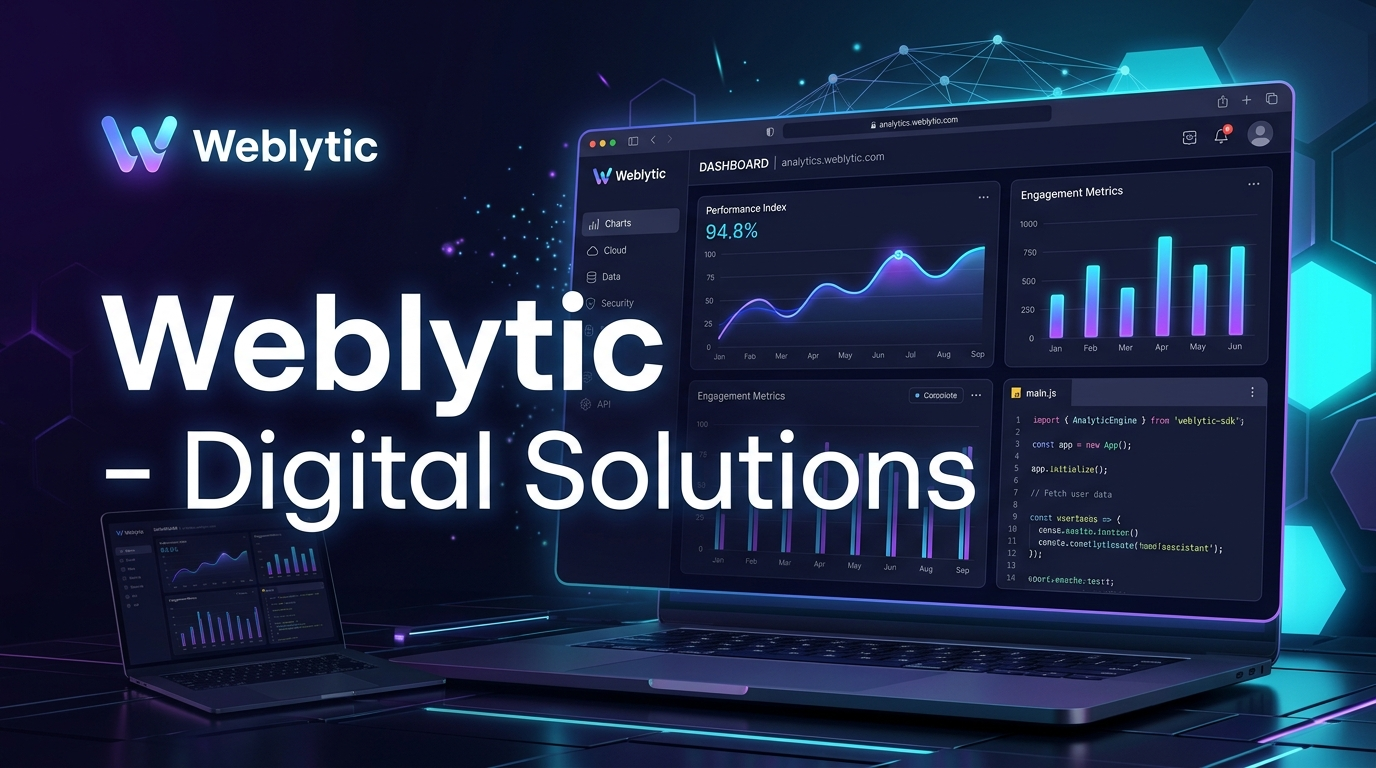
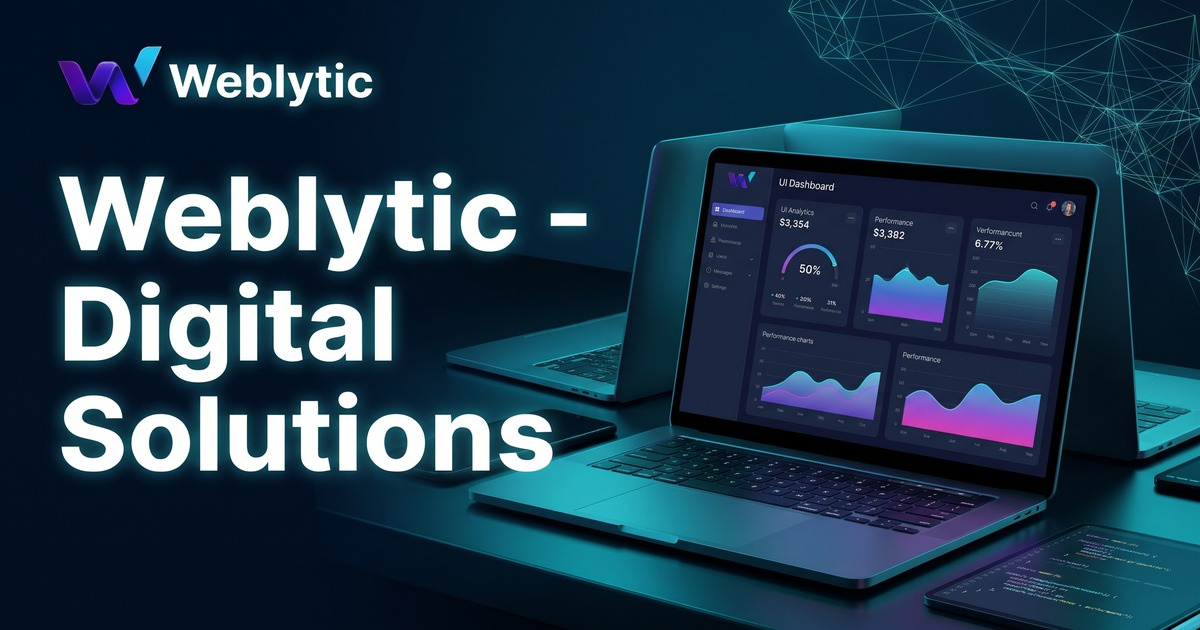
Fix(perf+seo): Optimize assets to WebP, fix OpenGraph 1200x630 preview, and resolve schema metadata

diff --git a/app/layout.tsx b/app/layout.tsx
@@ -44,10 +44,11 @@ export const metadata: Metadata = {
     siteName: "Weblytic",
     images: [
       {
-        url: "/og-image.jpg",
+        url: "https://weblytic.cc/og-image.jpg",
         width: 1200,
         height: 630,
-        alt: "Weblytic - Digital Solutions Preview",
+        type: "image/jpeg",
+        alt: "Weblytic — Custom Software, Offline POS & Web Dev Pakistan",
       },
     ],
     locale: "en_US",
@@ -57,7 +58,7 @@ export const metadata: Metadata = {
     card: "summary_large_image",
     title: "Weblytic — Custom Software, Offline POS & Web Dev Pakistan",
     description: "Weblytic builds custom offline POS software with zero monthly fees, high-speed Next.js websites, local cPanel servers, and WhatsApp AI bots in Pakistan.",
-    images: ["/og-image.jpg"],
+    images: ["https://weblytic.cc/og-image.jpg"],
   },
   icons: {
     icon: [
@@ -99,7 +100,7 @@ const businessSchema = {
   "@context": "https://schema.org",
   "@type": "ProfessionalService",
   "name": "Weblytic",
-  "logo": "https://weblytic.cc/weblytic-logo.png",
+  "logo": "https://weblytic.cc/og-image.png",
   "image": "https://weblytic.cc/og-image.jpg",
   "url": "https://weblytic.cc",
   "telephone": "+923131398796",

diff --git a/components/Chatbot.tsx b/components/Chatbot.tsx
@@ -16,7 +16,7 @@ const KonainAvatar = ({ size = 28, className = "" }: { size?: number; className?
     style={{ width: size, height: size }}
   >
     <Image 
-      src="/konain-avatar.jpg" 
+      src="/konain-avatar.webp" 
       alt="Konain - Weblytic AI" 
       fill 
       className="object-cover" 
@@ -161,7 +161,7 @@ export default function Chatbot() {
             >
               <div className="relative w-full h-full rounded-full overflow-hidden border-2 border-background">
                 <Image 
-                  src="/konain-avatar.jpg" 
+                  src="/konain-avatar.webp" 
                   alt="Konain Avatar" 
                   fill 
                   className="object-cover" 

diff --git a/components/Navbar.tsx b/components/Navbar.tsx
@@ -45,7 +45,7 @@ export default function Navbar() {
             <a href="/" className="flex items-center gap-2.5 group">
               <div className="relative w-8 h-8 flex items-center justify-center">
                 <Image
-                  src="/weblytic-logo.png"
+                  src="/weblytic-logo.webp"
                   alt="Weblytic Logo"
                   width={32}
                   height={32}
